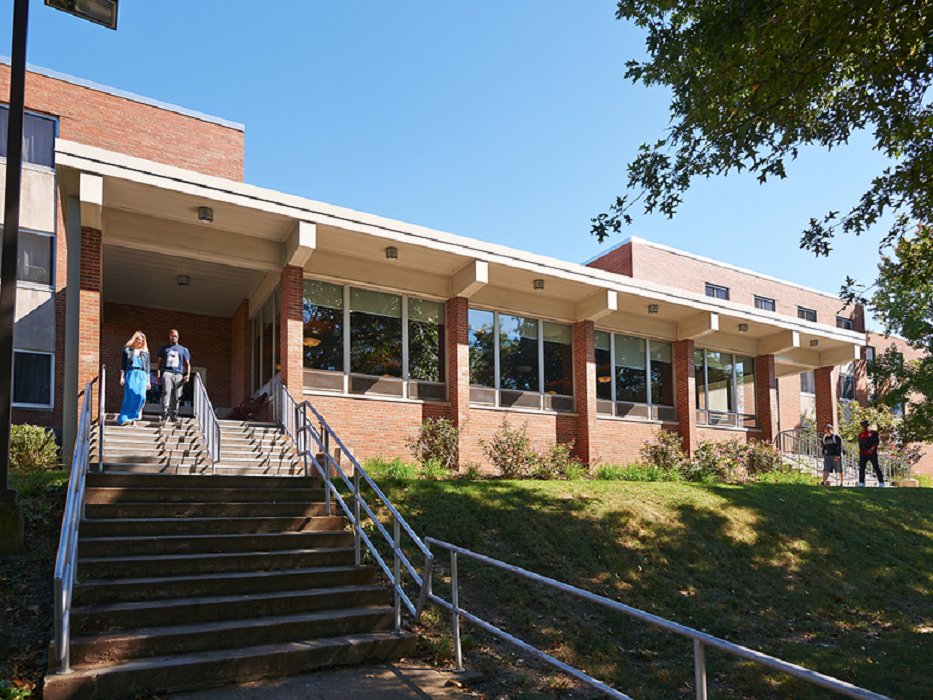
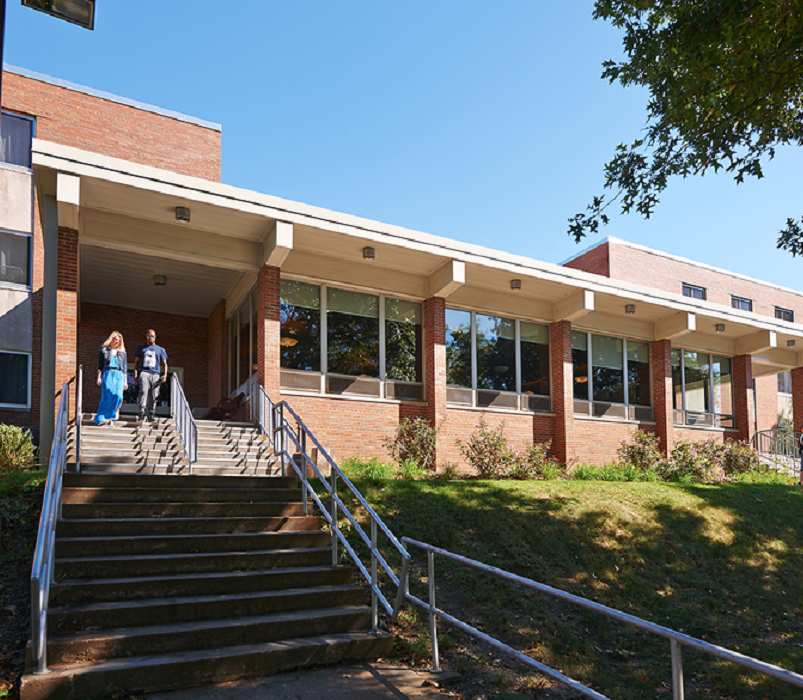
modified borders on game panel, added campus images, resized to fit window

diff --git a/src/team3_final_project/GameMainPanel.java b/src/team3_final_project/GameMainPanel.java
@@ -12,10 +12,9 @@ public class GameMainPanel extends JPanel implements ActionListener
 {
     /* create campus attributes */
     private String campusName;
-    private int campusColor;
     private ImageIcon campusLogo;
-    private ImageIcon campusImage;
-    private ImageIcon themeImage;
+    private ImageIcon campusBackgroundIcon;
+    private Image campusBackgroundImage;
     private JButton backMap;
     private JButton bBackMainMenu;
     
@@ -48,26 +47,33 @@ public class GameMainPanel extends JPanel implements ActionListener
     JButton ttt9;
     JButton[] buttonList = new JButton[9];
     
-    public GameMainPanel(String inName, int inColor, ImageIcon inLogo, ImageIcon inImage)
+    /* background image coordinates */
+    int x = 0;
+    int y = 0;
+    
+    public GameMainPanel(String inName, ImageIcon inLogo, ImageIcon inBackground)
     {
         /* setup GameMainPanel */
         super();
-        setBackground(Color.cyan);
+        setBackground(Color.black);
         setLayout(null);
         
-        themeImage = inLogo;
+//        themeImage = inTheme;
         campusName = inName;
-        campusColor = inColor;
         campusLogo = inLogo;
-        campusImage = inImage;
+        campusBackgroundIcon = inBackground;
         campusComplete = false;
         
+        Font borderFont = new Font("SansSerif", Font.BOLD, 15);
         Border whiteLine = BorderFactory.createLineBorder(Color.white);
-        TitledBorder instructionsBorder = BorderFactory.createTitledBorder(whiteLine, "Instructions");
-        TitledBorder playerStatsBorder = BorderFactory.createTitledBorder(whiteLine, "Player Stats");
-        TitledBorder characterImageBorder = BorderFactory.createTitledBorder(whiteLine, "Playing As");
-        TitledBorder campusLogoBorder = BorderFactory.createTitledBorder(whiteLine, "Campus");
-        TitledBorder themeLogoBorder = BorderFactory.createTitledBorder(whiteLine, "Chosen Theme");
+        Border whiteLineTitle = BorderFactory.createTitledBorder(whiteLine, "");
+                
+        Border instructionsBorder = new TitledBorder(whiteLineTitle, "Instructions",TitledBorder.LEFT, TitledBorder.TOP, borderFont, Color.white);
+        Border playerStatsBorder = new TitledBorder(whiteLineTitle, "Player Stats",TitledBorder.LEFT, TitledBorder.TOP, borderFont, Color.white);
+        Border characterImageBorder = new TitledBorder(whiteLineTitle, "Character",TitledBorder.LEFT, TitledBorder.TOP, borderFont, Color.white);
+        Border campusLogoBorder = new TitledBorder(whiteLineTitle, "Campus",TitledBorder.LEFT, TitledBorder.TOP, borderFont, Color.white);
+        Border themeLogoBorder = new TitledBorder(whiteLineTitle, "Theme",TitledBorder.LEFT, TitledBorder.TOP, borderFont, Color.white);
+        
         
         /* create and add backMap button */
         backMap = new JButton("Back to Map");
@@ -78,6 +84,9 @@ public class GameMainPanel extends JPanel implements ActionListener
         bBackMainMenu = new JButton("Main Menu");
         add(bBackMainMenu);
         bBackMainMenu.setBounds(new Rectangle(585,625,190,25));
+        
+        /* add campus background */
+        campusBackgroundImage = campusBackgroundIcon.getImage();
         
         /* add gameInstructions JPanel for mini game instructions */
         gameInstructions = new JPanel();
@@ -138,6 +147,24 @@ public class GameMainPanel extends JPanel implements ActionListener
         add(logoCampus);
         
         game_selection(1);
+
+    }
+    
+    public void setX(int inX)
+    {
+        x = inX;
+    }
+    
+    public void setY(int inY)
+    {
+        y = inY;
+    }
+    
+    @Override
+    public void paintComponent(Graphics g)
+    {
+        super.paintComponent(g);
+        g.drawImage(campusBackgroundImage,x,y,this);
     }
     
     @Override
@@ -145,12 +172,7 @@ public class GameMainPanel extends JPanel implements ActionListener
     {
         campusName = name;
     }
-    
-    public void setColor(int color)
-    {
-        campusColor = color;
-    }
-    
+       
     public void setIcon(ImageIcon icon)
     {
         campusLogo = icon;
@@ -165,11 +187,6 @@ public class GameMainPanel extends JPanel implements ActionListener
     public String getName()
     {
         return campusName;
-    }
-    
-    public int getColor()
-    {
-        return campusColor;
     }
     
     public ImageIcon getLogo()
@@ -202,11 +219,11 @@ public class GameMainPanel extends JPanel implements ActionListener
     {
         player1 = p1;
         
-        JLabel charIcon = new JLabel(player1.getImageIcon());
+        JLabel charIcon = new JLabel(player1.getCharacterIcon());
         imageCharacter.add(charIcon, BorderLayout.CENTER);
         
-//        JLabel theme = new JLabel(player1.getThemeIcon());
-//        logoTheme.add(theme, BorderLayout.CENTER);
+        JLabel theme = new JLabel(player1.getTheme());
+        logoTheme.add(theme, BorderLayout.CENTER);
         
         bScore.setText("Score: " + player1.getScore());
     }

diff --git a/src/team3_final_project/Player.java b/src/team3_final_project/Player.java
@@ -8,7 +8,7 @@ public class Player
     /* player information */
     private String character;
     private String bonus;
-    private ImageIcon icon;
+    private ImageIcon characterIcon;
     private Image image;
     private ImageIcon mapIcon;
     private Image mapImage;
@@ -23,8 +23,8 @@ public class Player
         if(character == "Football Player")
         {
             bonus = "Sports";
-            icon = new ImageIcon("images/characters/footballplayer.png");
-            image = icon.getImage();
+            characterIcon = new ImageIcon("images/characters/footballplayer.png");
+            image = characterIcon.getImage();
             
             mapIcon = new ImageIcon("images/icons/football.png");
             mapImage = mapIcon.getImage();
@@ -33,8 +33,8 @@ public class Player
         if(character == "Mascot")
         {
             bonus = "History";
-            icon = new ImageIcon("images/characters/mascot.jpg");
-            image = icon.getImage();
+            characterIcon = new ImageIcon("images/characters/mascot.jpg");
+            image = characterIcon.getImage();
             
             mapIcon = new ImageIcon("images/icons/pawprint.png");
             mapImage = mapIcon.getImage();
@@ -43,8 +43,8 @@ public class Player
         if(character == "Student")
         {
             bonus = "Academics";
-            icon = new ImageIcon("images/characters/student.png");
-            image = icon.getImage();
+            characterIcon = new ImageIcon("images/characters/student.png");
+            image = characterIcon.getImage();
             
             mapIcon = new ImageIcon("images/icons/book.png");
             mapImage = mapIcon.getImage();
@@ -66,9 +66,9 @@ public class Player
         return mapIcon;
     }
     
-    public ImageIcon getImageIcon()
+    public ImageIcon getCharacterIcon()
     {
-        return icon;
+        return characterIcon;
     }
     
     public Image getImage()

diff --git a/src/team3_final_project/Team3_JPanel.java b/src/team3_final_project/Team3_JPanel.java
@@ -115,7 +115,7 @@ public class Team3_JPanel extends JPanel implements ActionListener, KeyListener
         for(int i = 0; i < 6; i++)
         {          
             campusList[i] = new GameMainPanel((String)xml.ReadObject(), 
-                    (int)xml.ReadObject(),(ImageIcon)xml.ReadObject(),(ImageIcon)xml.ReadObject());            
+                    (ImageIcon)xml.ReadObject(),(ImageIcon)xml.ReadObject());            
         }
         xml.closeReaderXML();
         

diff --git a/src/team3_final_project/MapPanel.java b/src/team3_final_project/MapPanel.java
@@ -58,7 +58,7 @@ public class MapPanel extends JPanel
         
         /* create character image */
         JLabel charImage = new JLabel();
-        charImage.setIcon(player1.getImageIcon());
+        charImage.setIcon(player1.getCharacterIcon());
         
         /* create score button */
         bScore = new JButton("Score: " + player1.getScore());
